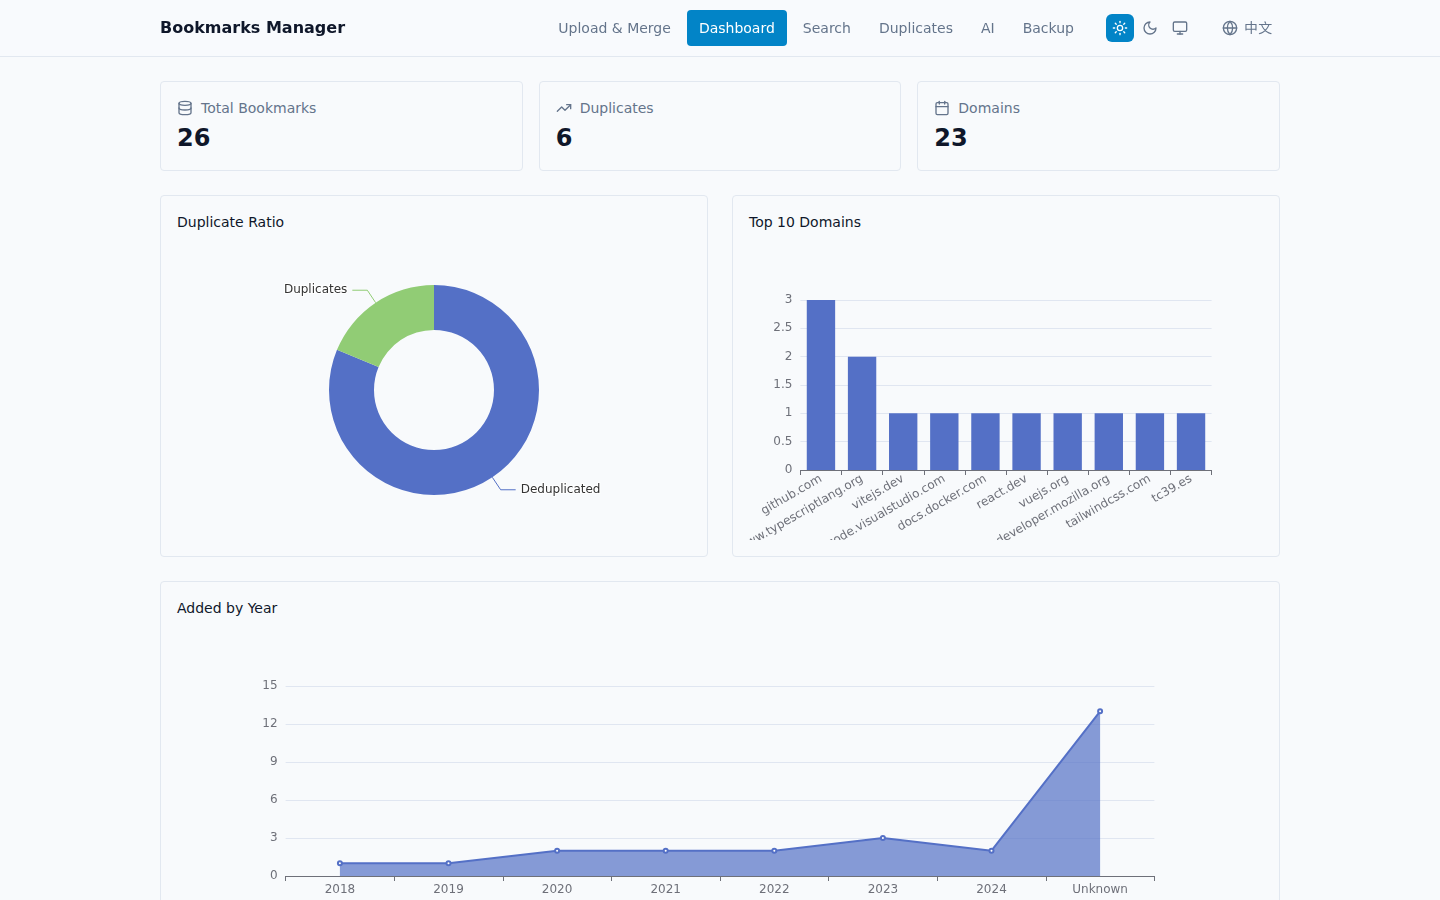
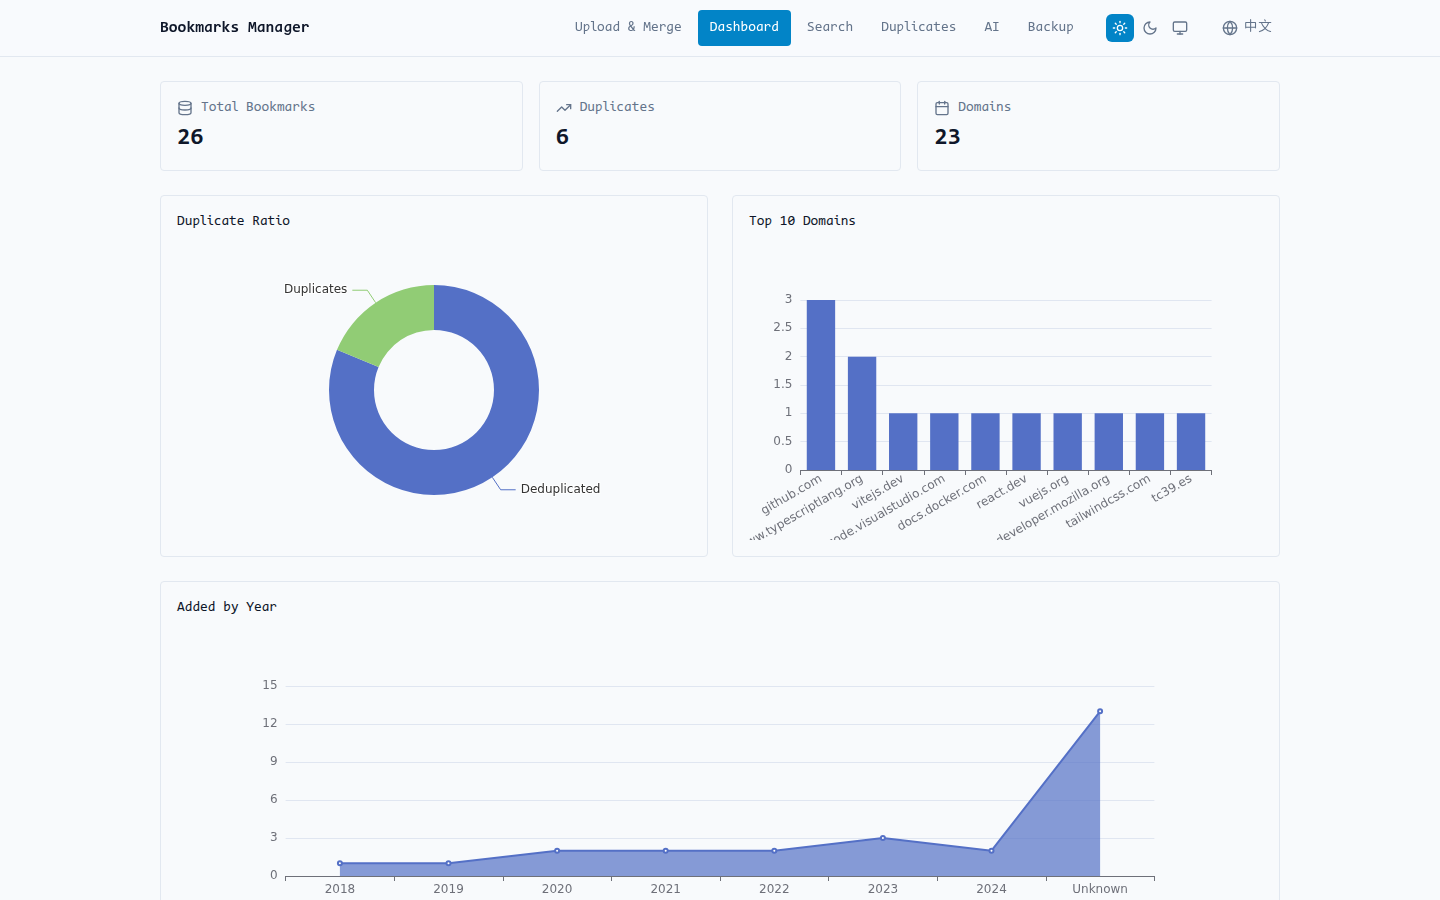
feat: 默认字体栈改为 Code New Roman(英文) + Resource Han Rounded CN(中文)
- tailwind.config.js: fontFamily.sans/mono 优先 Code New Roman
- src/index.css: body 显式声明字体栈(覆盖 Tailwind preflight 默认 sans)
- 效果: 英文渲染 Code New Roman(衬线), 中文渲染 Han Rounded CN, 不再 fallback 到 Noto Sans SC
- 已用 canvas 测量验证 actual 宽度 = Code New Roman 宽度, 字体栈生效
- 用新字体栈重截四张功能截图

diff --git a/tailwind.config.js b/tailwind.config.js
@@ -4,6 +4,11 @@ export default {
   content: ['./index.html', './src/**/*.{ts,tsx}'],
   theme: {
     extend: {
+      fontFamily: {
+        // 英文默认 Code New Roman, 中文默认 Resource Han Rounded CN
+        sans: ['"Code New Roman"', '"Resource Han Rounded CN"', 'ui-sans-serif', 'system-ui', 'sans-serif'],
+        mono: ['"Code New Roman"', 'ui-monospace', 'SFMono-Regular', 'Menlo', 'Consolas', 'monospace']
+      },
       colors: {
         background: 'var(--background)',
         foreground: 'var(--foreground)',

diff --git a/src/index.css b/src/index.css
@@ -37,6 +37,7 @@
 
   body {
     @apply bg-background text-foreground antialiased;
+    font-family: 'Code New Roman', 'Resource Han Rounded CN', ui-sans-serif, system-ui, sans-serif;
     transition:
       background-color 0.2s,
       color 0.2s;
